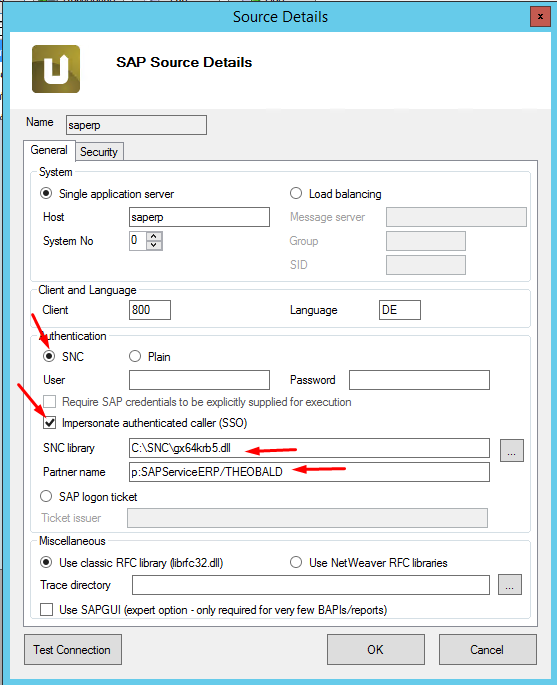
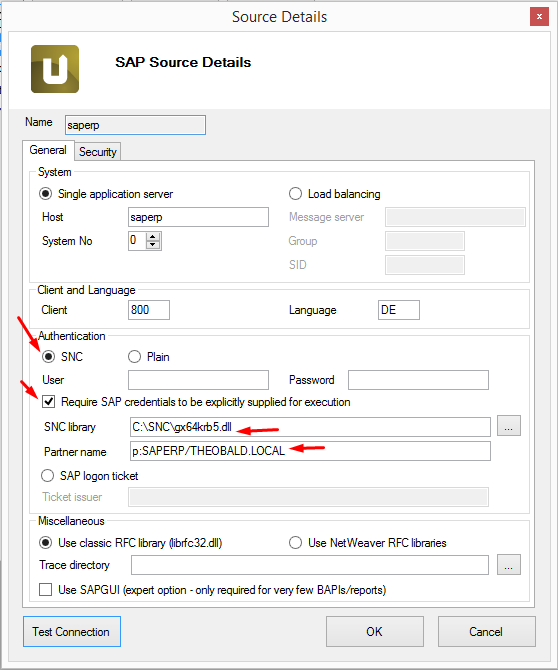
XU:DE: Fortgeschrittene Techniken...SSO.

Changed region(s): [[0.0, 0.0, 1.0, 1.0], [0.8546, 0.7463, 0.8851, 0.7761], [0.3662, 0.1791, 0.3968, 0.209]]

diff --git a/content/_de/xtract-universal/fortgeschrittene-techniken/SAP-Single-Sign-On/SSO mit Kerberos SNC.md b/content/_de/xtract-universal/fortgeschrittene-techniken/SAP-Single-Sign-On/SSO mit Kerberos SNC.md
@@ -42,13 +42,13 @@ Diese Einstellung hat erstmal nichts direkt mit dem Einrichten von SSO zu tun, i
 
 Legen Sie einen Windows AD Service Account an. Das ist der Account, unter dem der Xtract Universal Service läuft (XU Service Account).
 
-Konfigurieren Sie den Account für *Constrained Delegation*. Im folgenden Screenshot ist *SAPServiceERP* der Windows Account, unter dem der SAP-Applikationsserver läuft.
-![XU_SSO_WinAD_SPN](/img/content/XU_SSO_WinAD_Delegation.png){:class="img-responsive"}
-
-
-Definieren Sie im *Atribut-Editor* Tabreiter zwei *Service Principal Names (SPN)* in der Notation *HTTP/[XU FQDN host name]* und *HTTP/[XU host name]*
+Definieren Sie im *Attribut-Editor* Tabreiter zwei *Service Principal Names (SPN)* in der Notation *HTTP/[XU FQDN host name]* und *HTTP/[XU host name]*. In nachfolgendem Screenshot ist *theosoftw2012r2* der Name des Rechners, auf dem der XU Service läuft.
 ![XU_SSO_WinAD_SPN](/img/content/XU_SSO_WinAD_SPN.png){:class="img-responsive"}
 
+Konfigurieren Sie den Account für *Constrained Delegation*. Im folgenden Screenshot ist *SAPERP* der SPN des Windows Accounts, unter dem der SAP-Applikationsserver läuft.
+ ![XU_SSO_SPN_SAPService](/img/content/XU_SSO_SPN_SAPService.png){:class="img-responsive"}
+ 
+![XU_SSO_WinAD_SPN](/img/content/XU_SSO_WinAD_Delegation.png){:class="img-responsive"}
 
  Lassen Sie den Xtract Universal Service unter diesem Account laufen.
 ![XU_ServiceAccount](/img/content/XU_Service_Account.png){:class="img-responsive"}
@@ -59,7 +59,6 @@ Definieren Sie im *Atribut-Editor* Tabreiter zwei *Service Principal Names (SPN)
 * Kerberos Library auf Laufwerk kopieren
 * Hinzufügen des XU Service Account zur Local Admin Gruppe (*compmgmt.msc*)
 * Einstellungen für den XU Service Account in der Local Security Policy (*secpol.msc*)
-
 
 
 *Kerberos Wrapper Library*: Die relevante dll-Datei befindet sich als Anhang im [SAP Hinweis 2115486](https://launchpad.support.sap.com/#/notes/2115486). Wir gehen davon aus, dass Sie den Xtract Universal Service auf einem 64bit Betriebssystem betreiben. Bitte laden Sie daher die *gx64krb5.dll* herunter.
@@ -77,7 +76,10 @@ Legen Sie die Datei ebenfalls auf jedem Rechner, auf dem der Xtract Universal De
 **Zu 4: Einstellungen in Xtract Universal**
 
 
-Öffnen Sie die Einstellungen zur SAP Source. Wählen Sie *SNC* aus und haken Sie *Impersonate authenticated caller (SSO)* an. Unter *SNC library* geben Sie bitten den Pfad an, unter dem Sie die gx64krb5.dll aus *Schritt 3* abgelegt hatten. Als *Partner name* geben Sie bitte den Service Account an, unter dem der SAP Applikationsserver läuft, und zwar in dieser Notation. *p:[Service Account]/[Domain]*
+Öffnen Sie die Einstellungen zur SAP Source. Wählen Sie *SNC* aus und haken Sie *Impersonate authenticated caller (SSO)* an. Unter *SNC library* geben Sie bitten den Pfad an, unter dem Sie die gx64krb5.dll aus *Schritt 3* abgelegt hatten. Als *Partner name* geben Sie bitte den SPN des Service Accounts an, unter dem der SAP Applikationsserver läuft (siehe Screenshot oben), und zwar in dieser Notation. *p:[Diensttyp]/[Domäne]*. 
+
+*Achtung:* Im SAP Logon Pad wird im Falle von SNC der Partnername häufig im Format des UPN des SAP Service Accounts angegeben (p:[SAP Service Account]@[Domäne]. Das ist im Falle von Xtract Universal *falsch*. Bitte, wie oben beschrieben, immer den SPN in der obigen Notation verwenden.
+
 ![XU_SSO_SAPSource](/img/content/XU_SSO_SAP_Source.png){:class="img-responsive"}
 
 

diff --git a/content/_de/xtract-universal/fortgeschrittene-techniken/SAP-Single-Sign-On.md b/content/_de/xtract-universal/fortgeschrittene-techniken/SAP-Single-Sign-On.md
@@ -15,7 +15,7 @@ old_url:
 **Anwendungsfall**
 
 BI Client Tools wie z.B. Power BI, Power Pivot, alteryx, etc. können Extraktionen in Xtract Universal anstoßen. Die extrahierten Daten werden von Xtract Universal direkt in diese Tools geladen.
-Bei diesem Anwendungsfall besteht häufig die Anforderung, dass die Extraktion mit den SAP-Credentials des (Windows AD) Benutzers ausgeführt wird, von dessen BI Client die Extraktion angestossen wurde. Das spielt z.B. häufig bei der Extraktion von BW/BEx Queries eine Rolle.
+Bei diesem Anwendungsfall besteht häufig die Anforderung, dass die Extraktion mit den SAP-Credentials des (Windows AD) Benutzers ausgeführt wird, von dessen BI Client die Extraktion angestoßen wurde. Das spielt z.B. häufig bei der Extraktion von BW/BEx Queries eine Rolle.
 
 Das heisst, die Windows-Credentials dieses Benutzers müssen via Xtract Universal an SAP weitergeleitet werden. Auf dem Weg dorthin oder auf SAP-Seite besteht ein Mapping zwischen Windows-Benutzer und dessen SAP-Credentials.
 
@@ -42,7 +42,7 @@ Das hier beschriebene Verfahren funktioniert ausschließlich mit der gsskrb5.
 Damit das Weiterreichen der Windows Credentials durch Xtract Universal funktioniert, muss die SNC-Lösung das unterstützen. Da Active Directory auf Kerberos basiert, muss dafür das "Double Hop"-Problem gelöst werden: Kerberos erlaubt aus Sicherheitsgründen das Weitergeben von Credentials nicht. Es gibt aber Kerberos-Erweiterungen von Microsoft (S4U-Extensions), die das ermöglichen. Diese Erweiterungen sind auch als "Constrained Delegation" bekannt.
 
 Die Common Crypto Library von SAP unterstützt das lt. Aussage des SAP Support explizit nicht. Die Kerberos Wrapper Library (gsskrb5) von SAP unterstützt das, und ist bei mehreren unserer Kunden im Einsatz. 
-Es gibt eventuell auch Third-Party-Anbieter von SNC-Lösungen, die das können, damit haben wir allerdings keine Erfahrung. Das bedeutet, dass für dieses Szenario die Kerberos Wrapper Library oder eine entsprechende Third-Party-Lösung eingesetzt werden muss.
+Es gibt eventuell auch Third-Party-Anbieter von SNC-Lösungen, die das können, damit konnten wir allerdings noch keine Erfahrung sammeln. Das bedeutet, dass für dieses Szenario die Kerberos Wrapper Library oder eine entsprechende Third-Party-Lösung eingesetzt werden muss.
 
 Da die Kerberos Wrapper Library die Microsoft-Extensions für Kerberos verwendet, um das Double-Hop-Problem zu umgehen, gibt es sie nur für Windows. Sie funktioniert also nur mit SAP-Applikationsservern unter Windows und Clients unter Windows.
 
